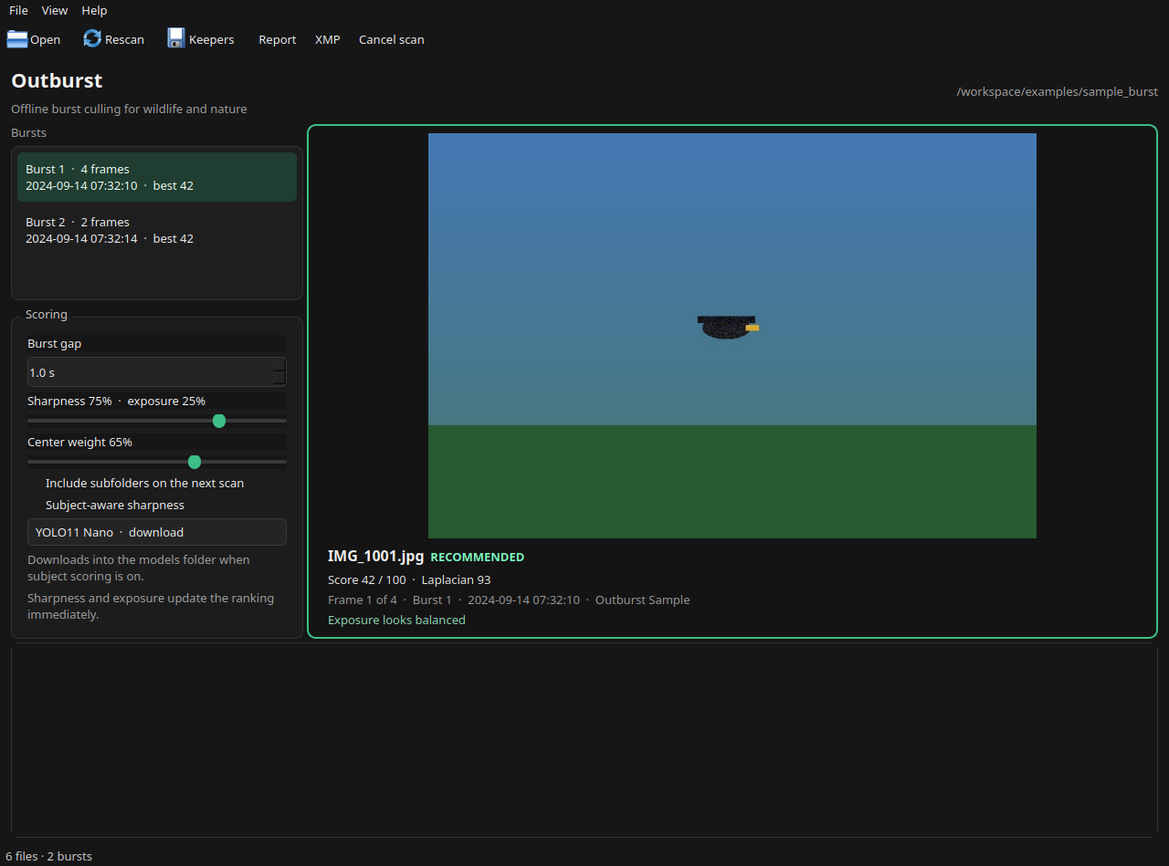
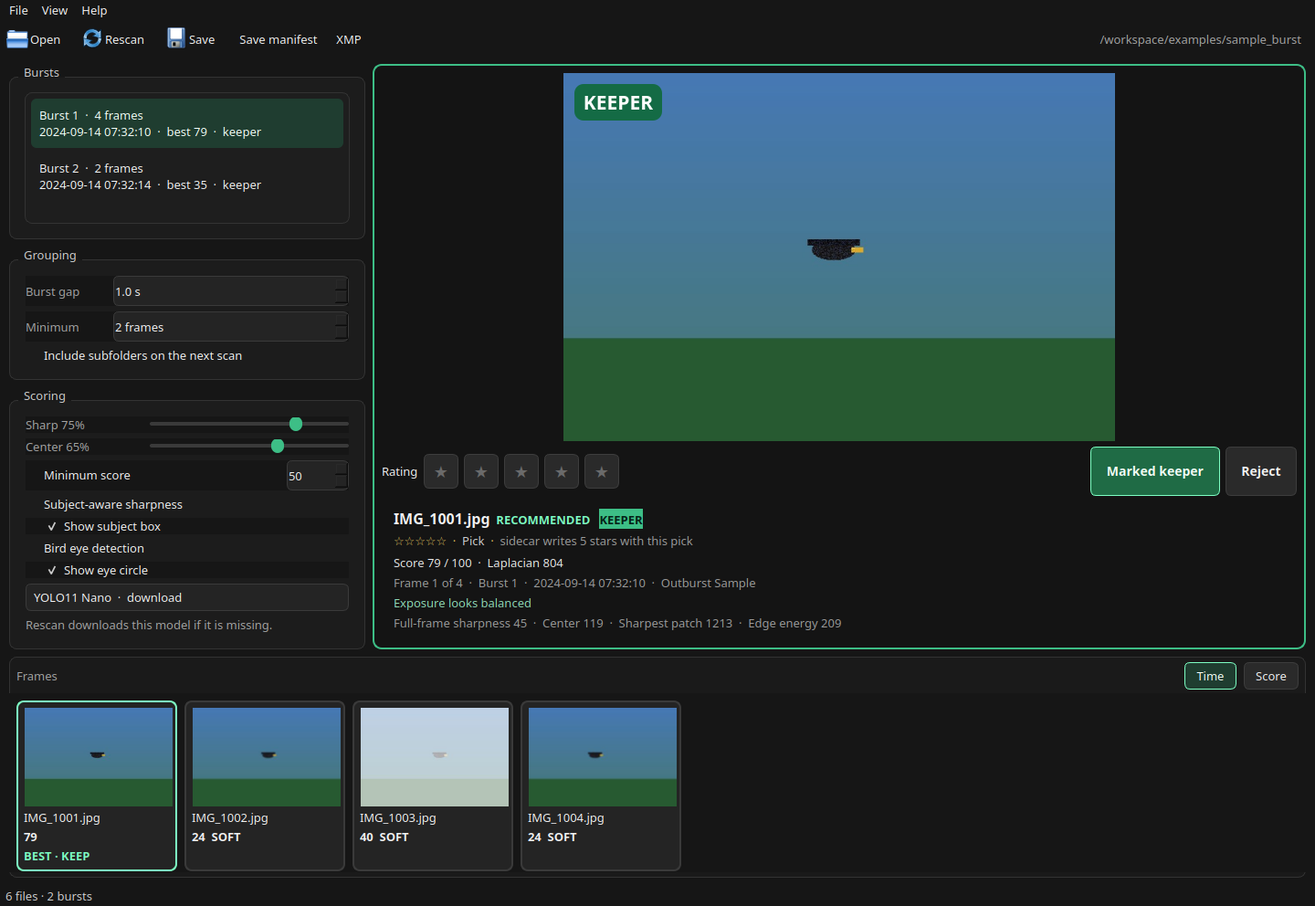
Refresh the README with current screenshots and shorter copy. (#31)
The review and compare pictures show the filmstrip, keeper mark, and scoring controls. The text uses the labels on screen and drops repeated explanation.

diff --git a/README.md b/README.md
@@ -1,26 +1,28 @@
 # Outburst
 
-Outburst is a free desktop app for culling wildlife and nature bursts on your own computer. It groups frames that were shot a fraction of a second apart, scores each one for sharpness and exposure, and shows you the frame it would keep.
+Outburst culls wildlife and nature bursts on your own computer. It groups frames shot a fraction of a second apart, scores each one, and opens on the frame it would keep.
 
-Nothing is uploaded. There is no account and no subscription. Outburst never modifies your original RAW or JPEG files. A subject model is downloaded only when you turn that feature on and the weights are not already in the models folder.
+Nothing is uploaded. There is no account. Original RAW and JPEG files stay untouched. A subject or bird-eye model is downloaded only when you turn that feature on and the weights are not already on disk.
 
-![Outburst review window with a burst selected and the recommended frame highlighted](docs/images/outburst-review.png)
+![Outburst review window, with the recommended frame marked as a keeper](docs/images/outburst-review.png)
+
+The picture is the included sample, `examples/sample_burst`. Real feathers score higher than these drawn shapes. The sharp frame still beats the soft ones and the blown one.
+
+![Two frames from the same burst, side by side](docs/images/outburst-compare.png)
+
+Press **C** to put the current frame beside another one. It starts beside the best other frame, or the next sharpest when you are already on the best. **[** and **]** move that other frame. Shift-click a thumbnail to compare with it.
 
 ## What you can do
 
-- Open a folder of RAW bursts, or JPEGs if that is what the camera wrote.
-- See the bursts in a list, and the frames in a filmstrip. **Minimum frames** hides shorter bursts. The default is 2, so a single frame stays off the list. **Minimum score**, in Scoring, hides frames below the number you set. A burst with no frame at that score leaves the list. Marks on hidden frames stay, and Save keepers still writes them.
-- Compare scores and open a larger preview. The recommended frame starts as a keeper: a green **KEEPER** stamp, a green outline, and the **Marked keeper** button pressed.
-- Change keepers with that button, or with the keyboard. Those marks are remembered on this computer.
-- Save the marked keepers as copies or hard links, write XMP sidecars, or save a JSON and CSV report.
-
-The copy above is a small drawn sample so you can try the window without a memory card. Real feathers score higher than these simple shapes. The ranking idea is the same: the sharp frame beats the soft ones and the blown one.
+- Open a folder of RAW bursts, or JPEGs when that is what the camera wrote.
+- Review bursts in the list and frames in the filmstrip. **Minimum** (default 2 frames) hides shorter bursts from the list and from Save. **Minimum score** hides frames under the number you set. A mark on a frame hidden that way stays, and Save still writes it.
+- The recommended frame starts as a keeper: a green **KEEPER** stamp and **Marked keeper** pressed.
+- Change keepers with that button or the keyboard. Marks are remembered on this computer.
+- Save marked keepers as copies or hard links, write XMP sidecars, or save a JSON and CSV manifest.
 
 ## Install
 
-You need Python 3.11 or newer. Outburst runs on macOS (including Apple Silicon), Windows, and Linux.
-
-Double-click the launcher in this folder:
+You need Python 3.11 or newer. Outburst runs on macOS (including Apple Silicon), Windows, and Linux. On Apple Silicon, use an arm64 build of Python.
 
 | System | Double-click |
 | --- | --- |
@@ -28,9 +30,7 @@ Double-click the launcher in this folder:
 | Windows | `Outburst.bat` |
 | Linux | `Outburst.desktop`, or run `./outburst.sh` |
 
-The first run creates `.venv`, downloads the libraries, and opens the window. Later runs open the window. You can close the terminal once the window is up.
-
-Open a folder straight away:
+The first run creates `.venv`, installs the libraries (including subject and bird-eye detection), and opens the window. That first install downloads PyTorch and can take several minutes. Later runs open the window. An older environment installs the extra the next time you start the launcher, or the first time you turn either feature on.
 
 ```bash
 ./outburst.sh examples/sample_burst
@@ -39,8 +39,6 @@ Open a folder straight away:
 ```bat
 Outburst.bat examples\sample_burst
 ```
-
-Subject detection and bird eye detection are included. The first run downloads PyTorch and can take several minutes. An older environment that does not have them yet installs them the next time you start the launcher, or the first time you turn either feature on. `./outburst.sh subject` and `Outburst.bat subject` still work.
 
 ### Install by hand
 
@@ -62,53 +60,33 @@ pip install -e ".[subject]"
 outburst
 ```
 
-Or open a folder immediately:
-
-```bash
-outburst examples/sample_burst
-```
-
-`examples/sample_burst` is included. To draw it again:
-
-```bash
-python examples/generate_sample_burst.py
-```
+Open a folder immediately with `outburst examples/sample_burst`. Redraw the sample with `python examples/generate_sample_burst.py`.
 
 ### exiftool
 
-Install [exiftool](https://exiftool.org/) if you can. Outburst uses it first, because it understands the most camera formats, including CR3.
+Install [exiftool](https://exiftool.org/) if you can. Outburst uses it first, including for CR3.
 
 - macOS: `brew install exiftool`
-- Windows: the ExifTool Windows package. Outburst starts it without a console window, so a scan does not flash command prompts.
-- Linux: the `libimage-exiftool-perl` package, or the equivalent for your distribution
+- Windows: the ExifTool Windows package. Outburst starts it without a console window.
+- Linux: `libimage-exiftool-perl`, or the equivalent for your distribution
 
-Without exiftool, Outburst reads capture times with the exifread library that ships with the app. exifread covers JPEG and TIFF-based RAW such as CR2, NEF, ARW, DNG, ORF, PEF, and RW2. It does not read CR3, RAF, or X3F. Those files fall through to a search for a date string, which is less reliable. A frame with no capture time stays in a burst by itself. When a RAW folder is opened without exiftool, the window says which of those formats are in the folder.
+Without exiftool, the bundled exifread library reads JPEG and TIFF-based RAW (CR2, NEF, ARW, DNG, ORF, PEF, RW2). CR3, RAF, and X3F fall through to a date-string search. A frame with no capture time stays in a burst by itself. Opening a RAW folder without exiftool names the formats in that folder.
 
-### Linux libraries
-
-A normal desktop already has what PySide6 needs. If the window fails to open because `libEGL.so.1` is missing, install `libegl1` (Debian and Ubuntu) and try again.
+If the window fails to open because `libEGL.so.1` is missing, install `libegl1` (Debian and Ubuntu) and try again.
 
 ## The window
 
-**Open** asks for a folder. Outburst looks in that folder only, unless you check **Include subfolders on the next scan**. It reads these RAW types, plus JPEG:
+**Open** reads the folder you pick. Check **Include subfolders on the next scan** to go deeper. Supported RAW types include `CR2` `CR3` `NEF` `NRW` `ARW` `ORF` `RAF` `RW2` `DNG` `PEF` `SRW`, plus the other extensions in `src/outburst/scanner.py`, and JPEG. A JPEG beside a RAW file of the same name is that frame's preview.
 
-`CR2` `CR3` `NEF` `NRW` `ARW` `ORF` `RAF` `RW2` `DNG` `PEF` `SRW` and the other common raw extensions listed in `src/outburst/scanner.py`.
+The first visit reads each file. Later visits are faster, because measurements and thumbnails stay in a cache on this computer. **Rescan** drops that cache for the open folder and reads it again. The list, preview, and filmstrip stay empty until scoring finishes. Keeper marks stay. **Clear cache** in the View menu forgets every folder.
 
-A JPEG that sits next to a RAW file with the same name is used as the preview. It is not counted as a second frame.
+The left side is **Bursts**, **Grouping**, and **Scoring**. The open folder sits on the right of the toolbar. Under the preview, stars set the rating, and **Mark as keeper** and **Reject** set the pick and reject flags. The filmstrip shows the burst, scored 0 to 100. **Time** follows the shutter. **Score** puts the highest score on the left, with ties left in shooting order. Arrow keys, Home, and End follow the order on screen. **CLIP** is a badly blown or crushed exposure. **SOFT** is well behind the best frame in that burst.
 
-While the scan runs, the status bar shows progress. The first visit reads each file, with a few frames measured at the same time. The next visit is much faster, because measurements and thumbnails are cached on this computer. **Rescan** throws away the cached measurements for the open folder and reads it again. The burst list, preview, and filmstrip clear while that scan runs, so the frames from the last pass cannot be marked or compared. They come back when scoring finishes. Keeper marks stay. **Clear cache** in the View menu does that for every folder. **Save keepers** and **Write XMP sidecars** also run in the background, two files at a time, so the window stays usable.
+**Burst gap** is how close two frames must be to stay together. The default is 1.0 second. A gap of exactly 1.0 second starts a new burst. Moving it regroups immediately. Keepers you marked stay. Outburst clears its own pick and marks the best frame of each burst.
 
-The left rail has three groups: **Bursts**, **Grouping**, and **Scoring**. The open folder path sits on the right of the toolbar. The large frame is the one you are reviewing. Under it, five stars set the rating, and **Mark as keeper** and **Reject** set the pick and reject flags. The strip along the bottom is every frame in the current burst, with a score from 0 to 100. **Time** and **Score** sit at the top of that strip. Time follows the shutter. Score puts the highest score on the left, and equal scores stay in the order they were shot. A frame with no score stays at the right. The choice is remembered. Left, right, Home, and End follow the order on screen. **CLIP** means the exposure is badly blown or crushed. **SOFT** means the score is well behind the best frame in that burst.
+**Sharp** and **Center** change the ranking without reading the files again. Sharpness is three quarters of the score. The center of the frame counts more than the corners.
 
-**C** puts the frame you are on beside another frame in the burst. It starts with the best other frame, or the next sharpest when you are already on the best. **[** and **]** move that other frame, and Shift-click a thumbnail compares with that frame. Click the other side to review it. **Z** shows the embedded preview at 1:1. **+** and **−**, or the scroll wheel over the preview, zoom through fit, 1:1, 2:1, and 4:1. Drag to look around. **F** paints the strongest edges green. These use the same preview Outburst scored. They do not demosaic the RAW file.
-
-**Burst gap** is how close two frames must be to stay in one burst. The default is 1.0 second. A gap of exactly 1.0 second starts a new burst. Moving the control regroups immediately. Keepers you marked stay. Outburst clears the keeper it had chosen and marks the best frame of each burst.
-
-**Sharpness** and **Center weight** change the ranking immediately, without reading the files again. Sharpness is three quarters of the score by default. The center of the frame counts a bit more than the corners, which suits a bird that is near the middle.
-
-**Subject-aware sharpness** is off unless you turn it on. See below.
-
-**Bird eye detection** is off unless you turn it on. It uses an open-weight bird eye model, not a guess at a dark spot. In a burst with two or more rated eyes, the sharpest eye becomes the best frame and is marked a keeper. A burst with no rated eye, or only one, keeps the usual sharpness ranking. Turning the checkbox on or off clears the keeper Outburst chose and scans the folder again. Keepers you marked stay.
+**Z** shows the preview at 1:1. **+**, **−**, and the scroll wheel step through fit, 1:1, 2:1, and 4:1. Drag to look around. **F** paints the strongest edges green. These use the preview Outburst scored.
 
 ### Keyboard
 
@@ -116,42 +94,44 @@ These work unless a slider or the burst-gap box is focused. Arrow keys then adju
 
 | Keys | Action |
 | --- | --- |
-| Right / Left | Next or previous frame in the filmstrip order |
+| Right / Left | Next or previous frame, in filmstrip order |
 | Down / Up | Next or previous burst |
-| Home / End | First or last frame in the filmstrip order |
+| Home / End | First or last frame, in filmstrip order |
 | Enter | Jump to the recommended frame |
-| C | Compare two frames. Starts beside the best other frame in the burst |
-| [ / ] | Move the other side of compare along the filmstrip |
+| C | Compare. Starts beside the best other frame |
+| [ / ] | Move the other side of compare |
 | Shift-click | Compare with that thumbnail |
-| Z | Zoom to 1:1. Press again to fit the frame |
-| + / − | Zoom in or out: fit, 1:1, 2:1, 4:1. Scroll does the same over the preview |
-| F | Focus peaking. Green marks the strongest edges |
+| Z | Zoom to 1:1. Press again to fit |
+| + / − | Zoom through fit, 1:1, 2:1, and 4:1 |
+| F | Focus peaking |
 | 1–5 | Set that star rating. Press the same number again to clear it |
 | 0 | Clear the star rating |
-| A | Flag this frame as a pick. Press again to clear it. Same as **Mark as keeper**. |
-| X | Reject this frame. Press again to clear it. Same as **Reject**. |
-| R | Reject the whole burst. Press again to clear it. |
-| G | Reject obvious misses in this burst. Press again to restore them. |
+| A | Pick. Same as **Mark as keeper**. Press again to clear |
+| X | Reject. Press again to clear |
+| R | Reject the burst. Press again to clear |
+| G | Reject obvious misses. Press again to restore them |
 | Ctrl+O | Open a folder |
-| F5 | Clear cached measurements for this folder and scan it again |
-| Ctrl+E | Save the frames marked as keepers |
-| Ctrl+Shift+E | Save a JSON and CSV manifest of every frame, its score, and the keeper marks |
-| Ctrl+Shift+X | Write XMP sidecars for keepers and star-rated frames |
-| Esc | Cancel the scan |
+| F5 | Rescan this folder |
+| Ctrl+E | Save keepers |
+| Ctrl+Shift+E | Save a manifest |
+| Ctrl+Shift+X | Write XMP sidecars |
+| Esc | Cancel the scan, download, or install |
 
 ## How a frame gets its score
 
-Outburst does not demosaic the RAW file. It scores the embedded JPEG preview (or the paired JPEG), scaled so the long side is at most 1024 pixels.
+Outburst scores the embedded JPEG preview, or the paired JPEG, with the long side at most 1024 pixels.
 
-Sharpness is the variance of a Laplacian on that preview. Higher means more fine detail. The rank follows the sharpest patch in the middle of the frame, mixed with the full frame by **Center weight**. Grass and branches in the corners count less than a crisp patch where the animal usually sits. With subject detection on, that patch is measured inside the animal. A second edge measurement, Tenengrad, is shown as edge energy and is not used for the rank.
+Sharpness is the variance of a Laplacian on that preview. The rank follows the sharpest patch in the middle, mixed with the full frame by **Center**. With subject detection on, that patch is inside the animal. Tenengrad is shown as edge energy.
 
-Exposure looks at the preview histogram. Large areas of clipped highlights are penalized more than crushed shadows. A little specular highlight is tolerated.
+Exposure uses the preview histogram. Clipped highlights cost more than crushed shadows. A little specular highlight is tolerated.
 
-The number under each thumbnail is the combined score, 0 to 100, with sharpness weighted more heavily than exposure. Within a burst, the highest score is the recommendation. If two scores match, the sharper full frame wins, then the earlier filename.
+The filmstrip number is that mix, from 0 to 100. The highest score in a burst is the recommendation. A tie goes to the sharper full frame, then the earlier filename.
+
+**Minimum score** hides frames under the cutoff. A burst with none left leaves the list. Marks and Save keepers are unchanged.
 
 ## Your files
 
-Scanning only writes into Outburst's cache:
+Scanning writes only into the cache:
 
 | System | Cache |
 | --- | --- |
@@ -159,53 +139,43 @@ Scanning only writes into Outburst's cache:
 | Windows | `%LOCALAPPDATA%\Outburst\Cache` |
 | Linux | `~/.cache/outburst` |
 
-Delete that folder if you want Outburst to measure everything again. A log file, `outburst.log`, is kept there too.
+Delete that folder to measure everything again. `outburst.log` is kept there too.
 
-**Save keepers** copies the frames you marked as keepers into a folder you pick. When a scan finishes, each burst's recommended frame is marked for you if that burst has no keeper yet. Clear that mark, or mark more frames, with the button under the preview. **G** rejects the other frames that are much softer than that best frame, or heavily clipped, and leaves anything you marked as a keeper. Press **G** again to bring those frames back. Changing **Burst gap** keeps the frames you marked, drops the automatic mark, and marks the best frame of each new burst. A burst with no keeper is skipped. A burst shorter than **Minimum frames** is hidden and is not saved, even if you marked a frame in it. Lower the minimum to review and save those bursts. Hard links are offered when you want a second name for the same file without using more disk space. If a link cannot be created, Outburst copies the file instead. Deleting the file in the keepers folder leaves the original in place.
+**Save** copies the frames you marked into a folder you pick. After a scan, each burst's recommended frame is marked when that burst has no keeper yet. **G** rejects the other frames that are much softer, or heavily clipped, and leaves your keepers. A burst with no keeper is skipped. A burst shorter than **Minimum** is hidden and is not saved. Hard links are offered when you want a second name for the same file. If a link cannot be created, Outburst copies the file. Deleting the copy leaves the original.
 
-**XMP** writes a sidecar named like the photo, with `.xmp` instead of the photo extension, for each keeper and for each frame with a star rating. A frame you rated and did not mark as a keeper still gets a sidecar. Lightroom, Capture One, Darktable, and digiKam can read it.
+**XMP** writes a sidecar for each keeper and each star-rated frame. Lightroom, Capture One, Darktable, and digiKam can read it.
 
-- Stars are `xmp:Rating` from 0 to 5, and `MicrosoftPhoto:Rating` as the matching percent. Keys **1** through **5** set them. **0**, or the same number again, clears them.
-- A pick (the keeper mark, key **A**) is `xmpDM:pick="1"` and `xmpDM:good="true"`. digiKam reads that as PickLabel 3. A pick with no star rating of its own is also written as 5 stars, which is what older catalogs expect.
-- A reject (key **X**) is `xmpDM:pick="-1"` and `xmpDM:good="false"`. digiKam reads that as PickLabel 1. With no stars of its own, `xmp:Rating` is -1 so a catalog that only reads the rating still sees the reject. Stars you set stay in `xmp:Rating` beside that flag.
+- Stars are `xmp:Rating` from 0 to 5, and `MicrosoftPhoto:Rating` as the matching percent.
+- A pick is `xmpDM:pick="1"` and `xmpDM:good="true"`. A pick with no stars of its own is also written as 5 stars.
+- A reject is `xmpDM:pick="-1"` and `xmpDM:good="false"`. With no stars of its own, `xmp:Rating` is -1. Stars you set stay beside that flag.
 
-A burst shorter than the minimum is not saved, so a pick on one of those frames is not written. Stars on that frame are still written. A reject with no stars is left without a sidecar. The sidecar also stores `outburst:Score`, the burst id, and whether the frame was the recommendation. Outburst asks before writing, and the count is those frames. If a sidecar is already there and is real XMP, Outburst updates its own fields and leaves the rest. If the file is not XMP, Outburst does not overwrite it. In Lightroom, choose Metadata → Read Metadata from Files. In Capture One, choose Load Metadata.
+A burst shorter than the minimum is not saved, so a pick on one of those frames is not written. Stars on that frame still are. A reject with no stars gets no sidecar. The sidecar also stores `outburst:Score`, the burst id, and whether the frame was the recommendation. Outburst asks before writing. An existing XMP file is updated in Outburst's own fields. A file that is not XMP is left alone.
 
-**Save manifest** writes `outburst-report.json` and `outburst-report.csv`. The files list every frame, its score, and the keeper marks. `examples/sample_output` shows the shape of both, plus a sample sidecar. Manifests use full file paths. Photos are not changed.
+**Save manifest** writes `outburst-report.json` and `outburst-report.csv`: every frame, its score, and the keeper marks. `examples/sample_output` shows the shape. The photographs stay as they are.
 
 ## Subject detection
 
-This part stays off until you turn it on. The scoring panel has a model dropdown: YOLO11 Nano (the default), YOLO11 Small, YOLOv8 Nano, and YOLOv8 Small. These are the official Ultralytics weights.
+This stays off until you check **Subject-aware sharpness**. The model list is YOLO11 Nano (the default), YOLO11 Small, YOLOv8 Nano, and YOLOv8 Small. Checking the box, or choosing a model, scores the open folder and downloads the weights when the file is missing. Cancel with Esc. Unchecking the box scores again from the measurements already cached.
 
-The launcher installs Ultralytics with Outburst. If you are in an older environment and turn **Subject-aware sharpness** or **Bird eye detection** on, the window installs it before the scan and the status bar says that PyTorch is downloading. You can also install it yourself:
+When an animal is found, the sharpest patch inside that box becomes the score, and the box is drawn. **Show subject box** hides the rectangle without scanning again. The score still uses the box, and zoom still centers on it when no eye is present. If nothing is found, Outburst keeps the center-patch score and says so.
 
-```bash
-pip install "outburst[subject]"
-```
+From this project, weights go in `models` next to this README. Otherwise they go in `models` inside the cache. Set `OUTBURST_MODELS` to use another folder. **ready** means the file is already there. **download** means it is fetched when you choose it. Photos stay on this computer.
 
-Choose a model in the dropdown, or check **Subject-aware sharpness**, then press **Rescan**. That turns subject scoring on, downloads the weights into the models folder when the file is not there yet, and scores the open folder with that model. Progress shows in the status bar. Cancel with Esc. When a bird or animal is found, the sharpest patch inside that box (with a small margin) becomes the score, and the box is drawn on the preview. **Show subject box**, under that checkbox, hides the rectangle without rescanning and without turning subject scoring off. The score still uses the box, and zoom still centers on it when no eye is present. If nothing is found, or the model cannot be loaded, Outburst keeps the center-patch score and tells you.
-
-When you run Outburst from this project, the folder is `models` next to this README. Otherwise the weights go in a `models` folder inside the Outburst cache. Set `OUTBURST_MODELS` to use a different folder. A model marked **ready** is already on disk. A model marked **download** is fetched when you choose it or when you rescan with subject scoring on. Photos are still never uploaded.
-
-On Apple Silicon the subject detector uses MPS when PyTorch provides it. On NVIDIA it uses CUDA. Otherwise it uses the CPU. Bird eye detection stays on the CPU so the eye point is not shifted by the MPS pose path. The rest of Outburst does not need a GPU.
+On Apple Silicon the subject detector uses MPS when PyTorch provides it. On NVIDIA it uses CUDA. Otherwise it uses the CPU.
 
 ## Bird eye detection
 
-This stays off until you check **Bird eye detection** on the scoring panel. The first time you turn it on, Outburst installs Ultralytics when that library is missing, then downloads `eye_pose_v0.pt` (about 6 MB) into the models folder. That file is the open-weight [synthet/eye-pose-v0](https://huggingface.co/synthet/eye-pose-v0) model, a YOLO11n pose network trained on CUB-200-2011 bird photos. It finds a bird and the left and right eye. The weights are AGPL-3.0, separate from Outburst. Photos are not uploaded.
+This stays off until you check **Bird eye detection**. Checking it, or unchecking it, scans the open folder again. The first time, Outburst downloads `eye_pose_v0.pt` (about 6 MB) into the models folder. That file is the open-weight [synthet/eye-pose-v0](https://huggingface.co/synthet/eye-pose-v0) model, a YOLO11n pose network trained on CUB-200-2011 bird photos. The weights are AGPL-3.0. Photos stay on this computer. The eye finder stays on the CPU.
 
-The model is birds only. It was trained on studio and Flickr-style bird photos, so a distant or unusual field frame may have no eye. Outburst hands it the analysis preview as OpenCV BGR. Ultralytics converts that to RGB. The whole preview is checked first. When that finds no eye, overlapping 512 pixel windows are checked and the strongest eye is mapped back onto the preview, so a bird that is clear but does not fill the frame can still be marked. A keypoint below 0.35 confidence is ignored. An eye is rated only when the disk drawn around it is at least 16 pixels across on the analysis preview. A smaller eye is noted and left out of the ranking. If the model finds nothing, the frame says no bird eye was found. A scan from before this reading is scored again the next time bird eye detection is on.
+The model is birds only, so a distant or unusual field frame may have no eye. Outburst checks the whole preview, then overlapping 512 pixel windows, and maps the strongest eye back. A keypoint under 0.35 confidence is ignored. An eye is rated only when the disk around it is at least 16 pixels across. A smaller eye is noted and left out of the ranking.
 
-When a burst has two or more frames with a rated eye, the sharpest of those eyes is the best frame and Outburst marks it as a keeper. A reject on that frame stays rejected. A keeper you already set stays yours. Other automatic keepers in that burst are cleared. A burst with fewer than two rated eyes uses the usual sharpness rank, and Outburst marks a keeper only when the burst does not already have one.
+With two or more rated eyes in a burst, the sharpest eye is the best frame and Outburst marks it as a keeper. A reject on that frame stays rejected. A keeper you already set stays yours. A burst with fewer than two rated eyes keeps the usual sharpness rank.
 
-A detected eye is drawn on the preview as a gold ring labeled EYE. **Show eye circle**, under Bird eye detection, hides that ring without rescanning and without turning detection off. The score and the zoom center stay as they are. The info line says the eye was detected. The filmstrip card says EYE, and the burst row counts the eyes in that burst. The status bar counts every detected eye in the folder, including frames in bursts that are hidden because they are shorter than Minimum frames. Turning the checkbox off scans the folder again with the usual sharpness ranking.
+A detected eye is a gold ring labeled EYE. **Show eye circle** hides the ring without scanning again. The score, the info line, and the zoom center stay. The filmstrip says EYE. The burst row and the status bar count detected eyes, including frames in bursts hidden by **Minimum**.
 
-## Apple Silicon
-
-Install Outburst with an arm64 build of Python 3.11 or newer and you do not need Rosetta. PySide6 and rawpy publish macOS wheels for Apple Silicon. The interface is the same app on Intel and Apple Silicon. High-DPI displays are handled by Qt 6.
+In an older environment that does not yet have Ultralytics, turning **Subject-aware sharpness** or **Bird eye detection** on installs it before the scan. The status bar says that PyTorch is downloading. You can also run `pip install "outburst[subject]"`.
 
 ## For developers
-
-The launcher's `.venv` is a normal virtual environment. Install the test extra into it when you want to run pytest:
 
 ```bash
 source .venv/bin/activate
@@ -213,17 +183,7 @@ pip install -e ".[dev]"
 pytest
 ```
 
-On Windows, activate with `.venv\Scripts\activate` instead.
-
-Core tests cover grouping, scoring, timestamp reading, preview fallback, the cache, and the non-destructive outputs. A lighter test opens the window offscreen, loads a folder, and moves between frames. The pipeline does not import Qt.
-
-See [docs/architecture.md](docs/architecture.md) for the scoring formula, cache keys, and which modules are allowed to write files.
-
-The one-click launcher is the supported way to install and open Outburst.
-
-## Roadmap
-
-This version includes the review window, timestamp grouping, preview scoring, a disk cache, adjustable weights, keyboard culling, side-by-side compare of any two frames, preview zoom, focus peaking, XMP, keeper export, and reports. Subject detection is optional. The model dropdown downloads a missing weights file into the models folder.
+On Windows, activate with `.venv\Scripts\activate`. See [docs/architecture.md](docs/architecture.md) for the scoring formula, cache keys, and which modules write files. The launcher is the supported way to install and open Outburst.
 
 Later versions can add a bundled small detector and signed installers for macOS and Windows.
 
